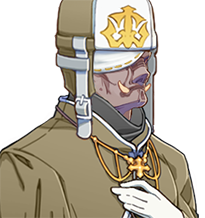
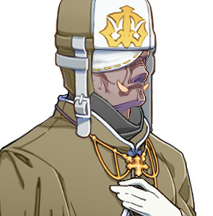
Consolidation of alternate identities

diff --git a/Bust Config.rb b/Bust Config.rb
@@ -58,8 +58,7 @@ Busty::SUBSET_TO_BUST = [
   {
     character_name: "Orcent1",
     face_name: "Orcent",
-    # face_indexes: [0, 1], # FIXME Mismatch for face 0 as of now
-    face_indexes: [1],
+    face_indexes: [0, 1]
   },
   {
     character_name: "Orcent2",
@@ -953,37 +952,34 @@ Busty::BASE_CONFIG.merge!({
     face_border_width: 1,
   },
   "Orcent IK" => {
-    bust_scale: 0.73,
-    face_offset_x: 62,
-    face_offset_y: 19,
+    bust_scale: 0.727272,
+    face_offset_x: 61,
+    face_offset_y: 18,
   },
   "Orcent merchant" => {
-    bust_scale: 0.73,
-    face_offset_x: 62,
+    bust_scale: 0.727272,
+    face_offset_x: 61,
     face_offset_y: 18,
-    face_border_width: 5,
   },
   "Orcent priest" => {
-    bust_scale: 0.73,
-    face_offset_x: 62,
-    face_offset_y: 19,
+    bust_scale: 0.727272,
+    face_offset_x: 61,
+    face_offset_y: 18,
   },
   "Orcent slave" => {
-    bust_scale: 0.74,
-    face_offset_x: 64,
-    face_offset_y: 19,
+    bust_scale: 0.727272,
+    face_offset_x: 61,
+    face_offset_y: 18,
   },
-  # FIXME Minor. Coloring issue for the no eyepatch face
   "Orcent1" => {
-    bust_scale: 0.73,
-    face_offset_x: 62,
-    face_offset_y: 19,
+    bust_scale: 0.727272,
+    face_offset_x: 61,
+    face_offset_y: 18,
   },
   "Orcent2" => {
-    bust_scale: 0.74,
-    face_offset_x: 36,
-    face_offset_y: 26,
-    face_border_width: [0, 0, 20, 15],
+    bust_scale: 0.727272,
+    face_offset_x: 35,
+    face_offset_y: 31,
   },
   "Grubbak" => {
     bust_scale: 0.73,
